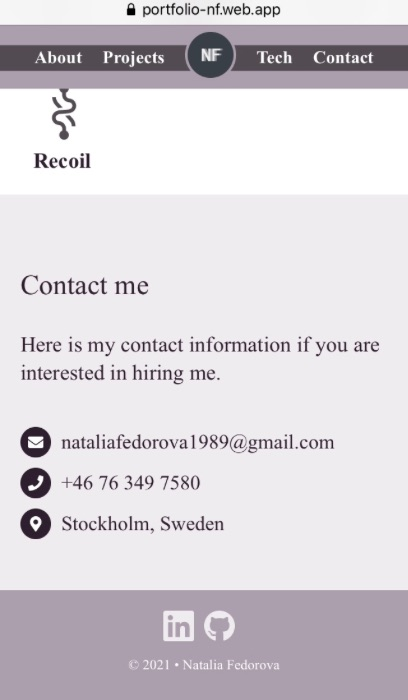
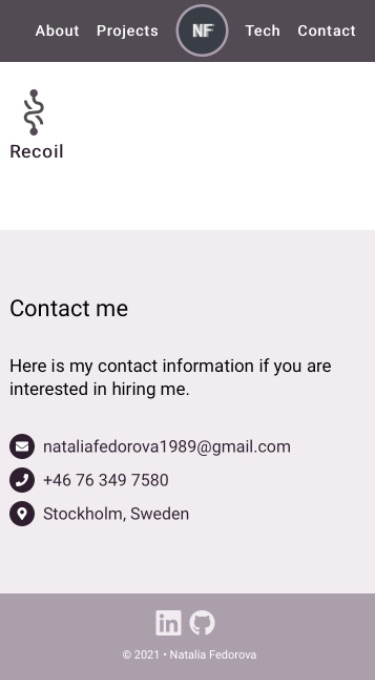
change component tree, screenshots for readme, edit comments

Changed region(s): [[0.0293, 0.3706, 0.9387, 0.7721], [0.0, 0.0, 1.0, 0.2471], [0.0, 0.8338, 1.0, 0.9882]]

diff --git a/src/components/ProjectModal.jsx b/src/components/ProjectModal.jsx
@@ -1,6 +1,6 @@
-export default function ProjectModal( { item }){
-    //Constants
-    const {
+export default function ProjectModal({ item }) {
+  // Constants
+  const {
     title,
     description,
     screenshot,
@@ -10,33 +10,35 @@ export default function ProjectModal( { item }){
   } = item;
   const screenshotObject = require(`../assets/pictures/${screenshot}`);
   const screenshotURL = screenshotObject.default;
-  //List of Technologies
+  // List of Technologies
   const ProjectTechnologiesList = technologies.map((item, index) => (
-    <li key={index} className="pills">{item}</li>
+    <li key={index} className="pills">
+      {item}
+    </li>
   ));
 
-    return(
-        <div id="modal-popup">
-        <div id="modal-img">
+  return (
+    <div id="modal-popup">
+      <div id="modal-img">
         <img src={screenshotURL} alt={screenshot} />
-        </div>
-        <div>
-          <h2>{title}</h2>
-          <p>{description}</p>
-          <ul id="technologies-list">{ProjectTechnologiesList}</ul>
-          <div className="buttons">
-            <button className="purple-button">
-              <a target="_blank" rel="noopener noreferrer" href={website}>
-                Visit website/app
-              </a>
-            </button>
-            <button className="white-button">
-              <a target="_blank" rel="noopener noreferrer" href={github}>
-                Git repository
-              </a>
-            </button>
-          </div>
+      </div>
+      <div>
+        <h2>{title}</h2>
+        <p>{description}</p>
+        <ul id="technologies-list">{ProjectTechnologiesList}</ul>
+        <div className="buttons">
+          <button className="purple-button">
+            <a target="_blank" rel="noopener noreferrer" href={website}>
+              Visit website/app
+            </a>
+          </button>
+          <button className="white-button">
+            <a target="_blank" rel="noopener noreferrer" href={github}>
+              Git repository
+            </a>
+          </button>
         </div>
       </div>
-    )
+    </div>
+  );
 }

diff --git a/src/styles/content.css b/src/styles/content.css
@@ -21,7 +21,11 @@
 
 /*Hero*/
 #hero {
-  background-image: radial-gradient(rgba(0, 0, 0, 0.7), rgba(255,255,255,0.1)), url("../assets/photos/home-picture.jpg");
+  background-image: radial-gradient(
+      rgba(0, 0, 0, 0.7),
+      rgba(255, 255, 255, 0.1)
+    ),
+    url("../assets/photos/home-picture.jpg");
   background-size: cover;
   background-position: center;
   min-height: 100vh;
@@ -96,7 +100,6 @@
   grid-template-columns: repeat(2, 1fr);
   grid-column-gap: var(--space-small);
   grid-row-gap: var(--space-small);
-
 }
 
 /*Technologies*/
@@ -139,7 +142,6 @@
   list-style: none;
 }
 
-
 #contact img {
   width: 24px;
   margin-right: var(--space-small);
@@ -158,7 +160,7 @@
 
 /*Tablet queries*/
 @media (min-width: 550px) {
-  .content-grid{
+  .content-grid {
     max-width: 550px;
   }
 
@@ -176,7 +178,6 @@
   #about img {
     width: 60%;
   }
-
 }
 
 /*Desktop queries*/
@@ -197,7 +198,6 @@
     display: grid;
     grid-template-columns: repeat(2, 1fr);
     justify-items: center;
-    
   }
 
   #hero h1 {
@@ -210,5 +210,4 @@
   #about img {
     width: 80%;
   }
-
 }

diff --git a/src/sections/Projects.jsx b/src/sections/Projects.jsx
@@ -3,14 +3,15 @@ import JSONProjects from "../data/projects.json";
 import ProjectItem from "../components/ProjectItem";
 import ProjectModal from "../components/ProjectModal";
 
-export default function Projects( { setModal }) {
+export default function Projects({ setModal }) {
   // Components
   const ProjectsList = JSONProjects.map((item) => (
-    <ProjectItem key={item.id} item={item} onClick={()=> onProject(item)}/>
+    <ProjectItem key={item.id} item={item} onClick={() => onProject(item)} />
   ));
 
+  // Methods
   function onProject(item) {
-    setModal(<ProjectModal item={item}/>);
+    setModal(<ProjectModal item={item} />);
   }
 
   return (
@@ -23,7 +24,9 @@ export default function Projects( { setModal }) {
             Novare Potential.
           </p>
         </div>
-        <div className="grid-left" id="projects-section">{ProjectsList}</div>
+        <div className="grid-left" id="projects-section">
+          {ProjectsList}
+        </div>
       </div>
     </div>
   );

diff --git a/src/components/ContactItem.jsx b/src/components/ContactItem.jsx
@@ -1,16 +1,16 @@
-export default function ContactItem({ contactInfo }){
-    // Constants
-    const { href, icon, iconalt, text} = contactInfo;
-    const iconObject = require(`../assets/icons/${icon}`);
-    const iconURL = iconObject.default;
-    return(
-        <div>
-            <li>
-                <a href={href}>
-                <img src={iconURL} alt={iconalt}/>
-                {text}
-                </a>
-            </li>
-        </div>
-    )
+export default function ContactItem({ contactInfo }) {
+  // Constants
+  const { href, icon, iconalt, text } = contactInfo;
+  const iconObject = require(`../assets/icons/${icon}`);
+  const iconURL = iconObject.default;
+  return (
+    <div>
+      <li>
+        <a href={href}>
+          <img src={iconURL} alt={iconalt} />
+          {text}
+        </a>
+      </li>
+    </div>
+  );
 }

diff --git a/src/sections/Technologies.jsx b/src/sections/Technologies.jsx
@@ -7,6 +7,7 @@ export default function Technologies() {
   const TechnologiesList = JSONTechnologies.map((item) => (
     <TechnologyItem key={item.id} title={item.title} logo={item.logo} />
   ));
+
   return (
     <div className="content-section" id="tech">
       <h2>Technologies</h2>
@@ -17,7 +18,9 @@ export default function Technologies() {
             the moment.
           </p>
         </div>
-        <div className="grid-right" id="grid-technologies">{TechnologiesList}</div>
+        <div className="grid-right" id="grid-technologies">
+          {TechnologiesList}
+        </div>
       </div>
     </div>
   );

diff --git a/src/components/ProjectItem.jsx b/src/components/ProjectItem.jsx
@@ -1,16 +1,13 @@
 export default function ProjectItem({ item, onClick }) {
-  //Constants
-  const {
-    title,
-    preview,
-    isFinished
-  } = item;
+  // Constants
+  const { title, preview, isFinished } = item;
   const previewObject = require(`../assets/pictures/${preview}`);
   const previewURL = previewObject.default;
 
   return (
     <article>
-      <div onClick={isFinished ? onClick : undefined}
+      <div
+        onClick={isFinished ? onClick : undefined}
         className={isFinished ? "normal" : "overlayed"}
       >
         {isFinished === false && (

diff --git a/src/components/FooterItem.jsx b/src/components/FooterItem.jsx
@@ -1,4 +1,4 @@
-export default function FooterItem( { contactInfo }) {
+export default function FooterItem({ contactInfo }) {
   // Constants
   const { href, icon, iconalt } = contactInfo;
   const iconObject = require(`../assets/icons/${icon}`);
@@ -6,11 +6,7 @@ export default function FooterItem( { contactInfo }) {
 
   return (
     <li>
-      <a
-        target="_blank"
-        rel="noopener noreferrer"
-        href={href}
-      >
+      <a target="_blank" rel="noopener noreferrer" href={href}>
         {" "}
         <img src={iconURL} alt={iconalt} />
       </a>

diff --git a/src/sections/About.jsx b/src/sections/About.jsx
@@ -14,7 +14,7 @@ export default function About() {
           </p>
           <p>
             I specialize in React development with a user-centered design. I
-            have previuosly completed IT Project Management training with the
+            have previously completed IT Project Management training with the
             focus on Scrum. If your company uses Agile methodologies - we are on
             the same page. Scroll down to see some of my work!
           </p>

diff --git a/src/styles/shared.css b/src/styles/shared.css
@@ -1,4 +1,4 @@
-@import url('https://fonts.googleapis.com/css2?family=Roboto&display=swap');
+@import url("https://fonts.googleapis.com/css2?family=Roboto&display=swap");
 
 html {
   scroll-behavior: smooth;
@@ -7,10 +7,9 @@ html {
 body {
   margin: 0;
   padding: 0;
-  font-family: 'Roboto', sans-serif;
+  font-family: "Roboto", sans-serif;
 }
 
-/* Mobile */
 h1 {
   font-size: 34px;
   font-weight: normal;

diff --git a/src/App.jsx b/src/App.jsx
@@ -18,12 +18,12 @@ export default function App() {
   return (
     <div className="App">
       <Navigation />
-      <Hero/>
+      <Hero />
       <About />
       <Projects setModal={setModal} />
       <Technologies />
       <Contact />
-      <Modal state={[modal, setModal]}/>
+      <Modal state={[modal, setModal]} />
     </div>
   );
 }

diff --git a/src/components/Modal.jsx b/src/components/Modal.jsx
@@ -1,8 +1,8 @@
-// NPM Package
+// NPM Packages
 import ReactDom from "react-dom";
 
 export default function Modal({ state }) {
-  const [child, setChild ] = state;
+  const [child, setChild] = state;
 
   if (child === null) return null;
 

diff --git a/src/components/TechnologyItem.jsx b/src/components/TechnologyItem.jsx
@@ -1,5 +1,5 @@
 export default function TechnologyItem({ title, logo }) {
-  //Constants
+  // Constants
   const logoObject = require(`../assets/technology-icons/${logo}`);
   const logoURL = logoObject.default;
 
